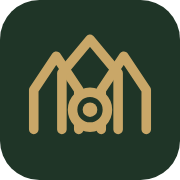
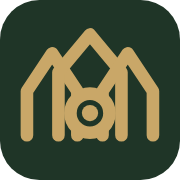
Website: Listing No. instead of room number, prominent specs, Nova tab title
Cards show size/floor/type right under the price and the Listing No.
at the bottom; the detail page and contact card use the Listing No.
Works with both the old and new public API. Blog posts keep blank-line
paragraphs when they also contain <h2>/<img>. Bolder Nova favicon.

Claude-Session: https://claude.ai/code/session_01RPhbiC9mHK7tmnMLZYgU85

diff --git a/index.html b/index.html
@@ -3,7 +3,7 @@
 <head>
 <meta charset="UTF-8">
 <meta name="viewport" content="width=device-width, initial-scale=1">
-<title>ROSA — หาห้องเช่า คอนโด พื้นที่เชิงพาณิชย์</title>
+<title>Nova Wealth Asset — ห้องเช่า คอนโด พื้นที่เชิงพาณิชย์</title>
 <meta name="description" content="ROSA by Nova Wealth Asset — ค้นหาคอนโดและพื้นที่เชิงพาณิชย์ให้เช่า พร้อมรูปภาพจริง ทำเลใกล้เคียง และทีมงานดูแลตลอดสัญญา โทร 062-442-6529">
 <link rel="icon" href="favicon.svg" type="image/svg+xml">
 <link rel="icon" href="favicon-32.png" sizes="32x32" type="image/png">
@@ -212,11 +212,12 @@
   .listing-body { padding: 16px 18px 18px; }
   .listing-price { font-size: 21px; font-weight: 800; color: var(--ink); }
   .listing-price span { font-size: 12.5px; font-weight: 400; color: var(--muted); }
-  .listing-room { font-size: 14.5px; font-weight: 600; margin: 4px 0 2px; }
+  .listing-specs { display: flex; gap: 6px 16px; flex-wrap: wrap; margin: 8px 0 6px; font-size: 14.5px; font-weight: 600; color: var(--ink); }
+  .listing-specs span { display: inline-flex; align-items: center; gap: 6px; }
+  .listing-specs svg { width: 16px; height: 16px; color: var(--gold-deep); }
   .listing-project { font-size: 13px; color: var(--ink-secondary); }
-  .listing-specs { display: flex; gap: 14px; flex-wrap: wrap; border-top: 1px solid var(--border); margin-top: 14px; padding-top: 12px; font-size: 12.5px; color: var(--ink-secondary); }
-  .listing-specs span { display: inline-flex; align-items: center; gap: 5px; }
-  .listing-specs svg { width: 15px; height: 15px; color: var(--gold-deep); }
+  .listing-no { border-top: 1px solid var(--border); margin-top: 14px; padding-top: 11px; font-size: 12px; color: var(--muted); letter-spacing: .02em; }
+  .listing-no b { color: var(--ink-secondary); font-weight: 600; }
 
   .empty-state {
     grid-column: 1 / -1; text-align: center; color: var(--ink-secondary); padding: 44px 20px; font-size: 14.5px;
@@ -744,19 +745,19 @@
       var specs = [];
       if (l.sizeSqm) specs.push('<span>' + ICON_SIZE + esc(l.sizeSqm) + ' ตร.ม.</span>');
       if (l.floor) specs.push('<span>' + ICON_FLOOR + 'ชั้น ' + esc(l.floor) + '</span>');
-      if (l.type) specs.push('<span>' + ICON_BED + esc(l.type) + '</span>');
+      if (l.typeLabel || l.type) specs.push('<span>' + ICON_BED + esc(l.typeLabel || l.type) + '</span>');
       return '<div class="listing-card" onclick="goDetail(' + Number(l.id) + ')">' +
         '<div class="listing-photo">' +
-          (l.coverPhoto ? '<img src="' + esc(l.coverPhoto) + '" alt="ห้อง ' + esc(l.roomNumber) + '" loading="lazy" onerror="this.style.display=\'none\';this.nextElementSibling.style.display=\'flex\';">' : '') +
+          (l.coverPhoto ? '<img src="' + esc(l.coverPhoto) + '" alt="' + esc(l.project) + '" loading="lazy" onerror="this.style.display=\'none\';this.nextElementSibling.style.display=\'flex\';">' : '') +
           '<div class="no-photo" style="' + (l.coverPhoto ? 'display:none;' : '') + '">ยังไม่มีรูปภาพ</div>' +
           '<span class="badge-type">' + esc(l.propertyType === 'Commercial' ? 'พื้นที่เชิงพาณิชย์' : 'ให้เช่า') + '</span>' +
           '<span class="badge-status">' + (l.status === 'Reserved' ? 'มีผู้จองแล้ว' : 'ว่าง') + '</span>' +
         '</div>' +
         '<div class="listing-body">' +
           '<div class="listing-price">' + money(l.rate) + '<span> /เดือน</span></div>' +
-          '<div class="listing-room">ห้อง ' + esc(l.roomNumber) + '</div>' +
-          '<div class="listing-project">' + esc(l.project) + (l.zone ? ' &middot; ' + esc(l.zone) : '') + '</div>' +
           (specs.length ? '<div class="listing-specs">' + specs.join('') + '</div>' : '') +
+          '<div class="listing-project">' + esc(l.project) + (l.zone ? ' &middot; ' + esc(l.zone) : '') + '</div>' +
+          (l.listingNo ? '<div class="listing-no">Listing No. <b>' + esc(l.listingNo) + '</b></div>' : '') +
         '</div></div>';
     }).join('');
   }
@@ -802,8 +803,8 @@
 
       document.getElementById('detail-body').innerHTML =
         '<div class="detail-head">' +
-          '<div><div class="detail-title">ห้อง ' + esc(room.roomNumber) + (property ? ' &middot; ' + esc(property.propertyName) : '') + '</div>' +
-          '<div class="detail-sub">' + esc(room.type) + (room.floor ? ' &middot; ชั้น ' + esc(room.floor) : '') + (room.facing ? ' &middot; ทิศ' + esc(room.facing) : '') + (room.sizeSqm ? ' &middot; ' + esc(room.sizeSqm) + ' ตร.ม.' : '') + (property && property.zone ? ' &middot; ' + esc(property.zone) : '') + '</div></div>' +
+          '<div><div class="detail-title">' + esc(room.typeLabel || room.type || 'ห้องเช่า') + (property ? ' &middot; ' + esc(property.propertyName) : '') + '</div>' +
+          '<div class="detail-sub">' + (room.listingNo ? 'Listing No. <b>' + esc(room.listingNo) + '</b>' + (room.typeLabel ? ' &middot; ' + esc(room.type) : '') : esc(room.type)) + (room.floor ? ' &middot; ชั้น ' + esc(room.floor) : '') + (room.facing ? ' &middot; ทิศ' + esc(room.facing) : '') + (room.sizeSqm ? ' &middot; ' + esc(room.sizeSqm) + ' ตร.ม.' : '') + (property && property.zone ? ' &middot; ' + esc(property.zone) : '') + '</div></div>' +
           '<div class="detail-price">' + money(room.rate) + '<span style="font-size:13px;color:var(--ink-secondary);font-weight:400;"> /เดือน</span></div>' +
         '</div>' +
         galleryHtml +
@@ -820,7 +821,7 @@
           '<div>' +
             '<div class="contact-card">' +
               '<h3>สนใจห้องนี้?</h3>' +
-              '<p>โทรหาเราได้ทันที หรือกรอกข้อมูลไว้ ทีมงานจะติดต่อกลับภายใน 24 ชม.</p>' +
+              '<p>โทรหาเราได้ทันที หรือกรอกข้อมูลไว้ ทีมงานจะติดต่อกลับภายใน 24 ชม.' + (room.listingNo ? ' แจ้ง Listing No. <b>' + esc(room.listingNo) + '</b> เมื่อโทรสอบถาม' : '') + '</p>' +
               '<a class="contact-call" href="tel:' + PHONE_TEL + '">&#9742; โทร ' + PHONE_DISPLAY + '</a>' +
               '<div class="form-group"><label>ชื่อ-นามสกุล *</label><input id="lead-name" type="text"></div>' +
               '<div class="form-group"><label>เบอร์โทร *</label><input id="lead-phone" type="tel"></div>' +
@@ -1014,10 +1015,14 @@
      Posts that already contain HTML are shown as written (staff-authored). */
   function formatBlogContent(c) {
     c = String(c || '');
-    if (/<\/?(p|h[1-6]|ul|ol|li|br|img|a|b|strong|em|blockquote|div)\b/i.test(c)) return c;
+    var hasHtml = /<\/?(p|h[1-6]|ul|ol|li|br|img|a|b|strong|em|blockquote|div|figure)\b/i.test(c);
+    // Blank line = new paragraph, also in posts that mix text with <h2>/<img> (written by staff in ROSA).
     return c.split(/\n\s*\n/).map(function (para) {
       para = para.trim();
-      return para ? '<p>' + esc(para).replace(/\n/g, '<br>') + '</p>' : '';
+      if (!para) return '';
+      if (!hasHtml) return '<p>' + esc(para).replace(/\n/g, '<br>') + '</p>';
+      if (/^<(p|h[1-6]|ul|ol|img|blockquote|div|figure|table)\b/i.test(para)) return para;
+      return '<p>' + para.replace(/\n/g, '<br>') + '</p>';
     }).join('');
   }
 
